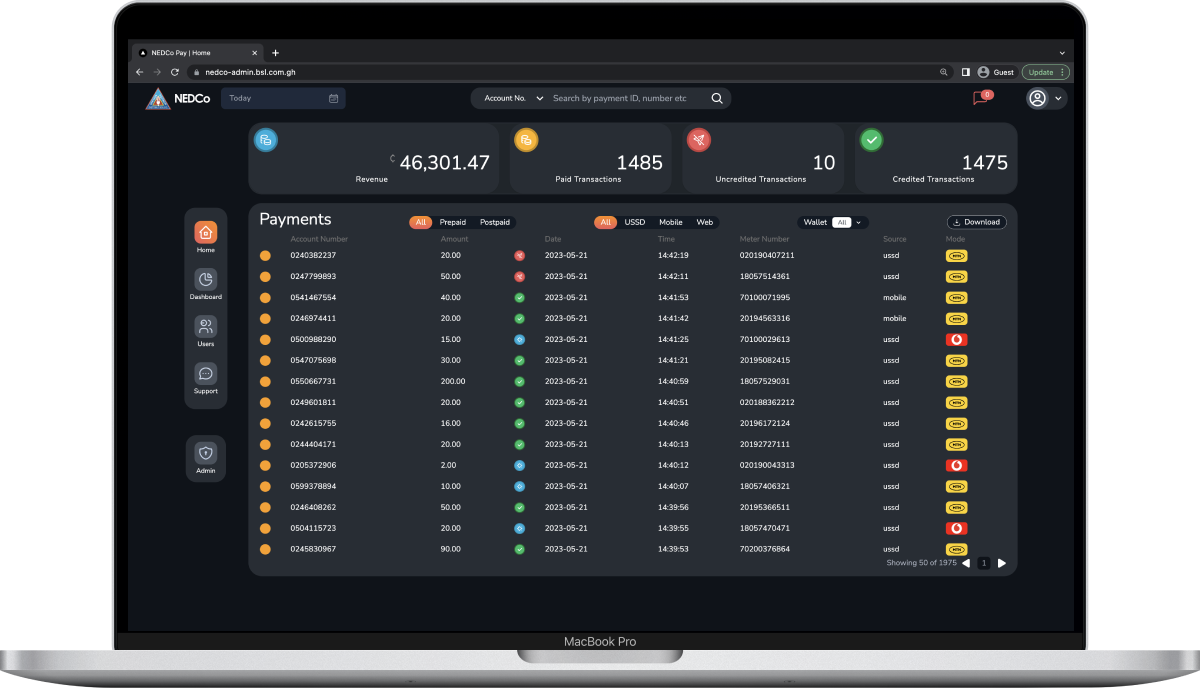
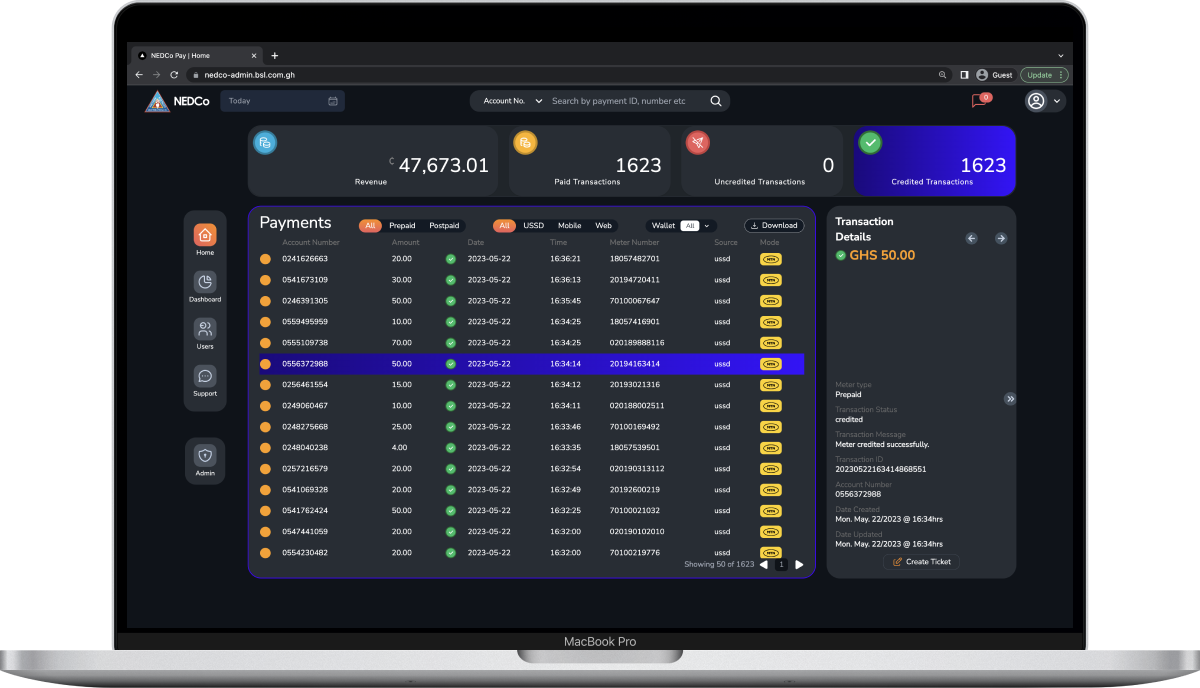
added rest of project dsta

diff --git a/src/app/projects/[projectID]/page.tsx b/src/app/projects/[projectID]/page.tsx
@@ -115,22 +115,19 @@ export default async function ProjectPage({ params: { projectID } }: Params) {
         )}
 
         {!project.mobileImages && (
-          <section className="bg-white dark:bg-gray-900">
-            <div className="gap-16 items-center  px-4 mx-auto max-w-screen-xl lg:grid lg:grid-cols-2 lg:py-16 lg:px-6">
-              <div className="font-light text-gray-500 sm:text-lg dark:text-gray-400">
-                <img
-                  src={project.desktopImages[0]}
-                  alt={project.projectTitle}
-                  className="w-full"
-                />
-              </div>
-              <div className="font-light text-gray-500 sm:text-lg dark:text-gray-400">
-                <img
-                  src={project.desktopImages[1]}
-                  alt={project.projectTitle}
-                  className="w-full"
-                />
-              </div>
+          <section className="md:pt-10 ">
+            <div className="  gap-x-20  items-center   mx-auto max-w-screen-xl lg:grid lg:grid-cols-2  flex-wrap">
+              {project.desktopImages.map((img, _x) => (
+                <div className={` ${_x % 2 === 0 ? "md:mt-0" : "md:-mt-60"}`}>
+                  <Image
+                    alt={project.projectTitle}
+                    src={img}
+                    blurDataURL={img}
+                    width={3456}
+                    height={2234}
+                  />
+                </div>
+              ))}
             </div>
           </section>
         )}

diff --git a/src/data/projectData.ts b/src/data/projectData.ts
@@ -49,7 +49,7 @@ const MyProjects : ProjectData[] = [
         industry: "Fintech",
         projectURL: "https://nedco-web.bsl.com.gh",
         techStacks: ["Next js", "React js"],
-        desktopImages: ["/assets/nedco-web/nedco-2.png", "/assets/nedco-web/nedco-3.png" ],
+        desktopImages: ["/assets/nedco-web/nedco-2.png", "/assets/nedco-web/nedco-3.png" , "/assets/nedco-web/nedco-4.png" , "/assets/nedco-web/nedco-5.png" , "/assets/nedco-web/nedco-6.png" , "/assets/nedco-web/nedco-7.png" ],
 
     },
     {
@@ -73,7 +73,7 @@ const MyProjects : ProjectData[] = [
         industry: "Fintech",
         projectURL: "https://nedco-admin.bsl.com.gh",
         techStacks: ["Next js", "React js"],
-        desktopImages: ["/assets/nedco-admin/nedco-2.png", "/assets/nedco-admin/nedco-3.png" ],
+        desktopImages: ["/assets/nedco-admin/nedco-2.png", "/assets/nedco-admin/nedco-3.png" ,"/assets/nedco-admin/nedco-4.png", "/assets/nedco-admin/nedco-5.png"],
 
     }
 ]

diff --git a/src/app/page.tsx b/src/app/page.tsx
@@ -47,8 +47,8 @@ export default function Home() {
           <div className="grid items-center grid-cols-1 mt-12 text-center md:mt-24 md:text-left md:grid-cols-6">
             <h1 className="order-2 col-span-5 text-4xl leading-tight md:leading-normal md:order-1 sm:text-5xl">
               I'm <span className="text-teal-500 dark:text-teal-400">John</span>
-              . I'm a software developer, system engineer and a product
-              developer.
+              . I'm a software engineer from Ghana, with rock solid experience
+              in building complex applications with modern technology
             </h1>
             <div className="order-1 md:order-2  flex justify-center">
               <Parallax clampFinal offset={30}>

diff --git a/src/app/globals.css b/src/app/globals.css
@@ -124,3 +124,5 @@
   stroke-linejoin: round;
   stroke-linecap: round;
 }
+
+
